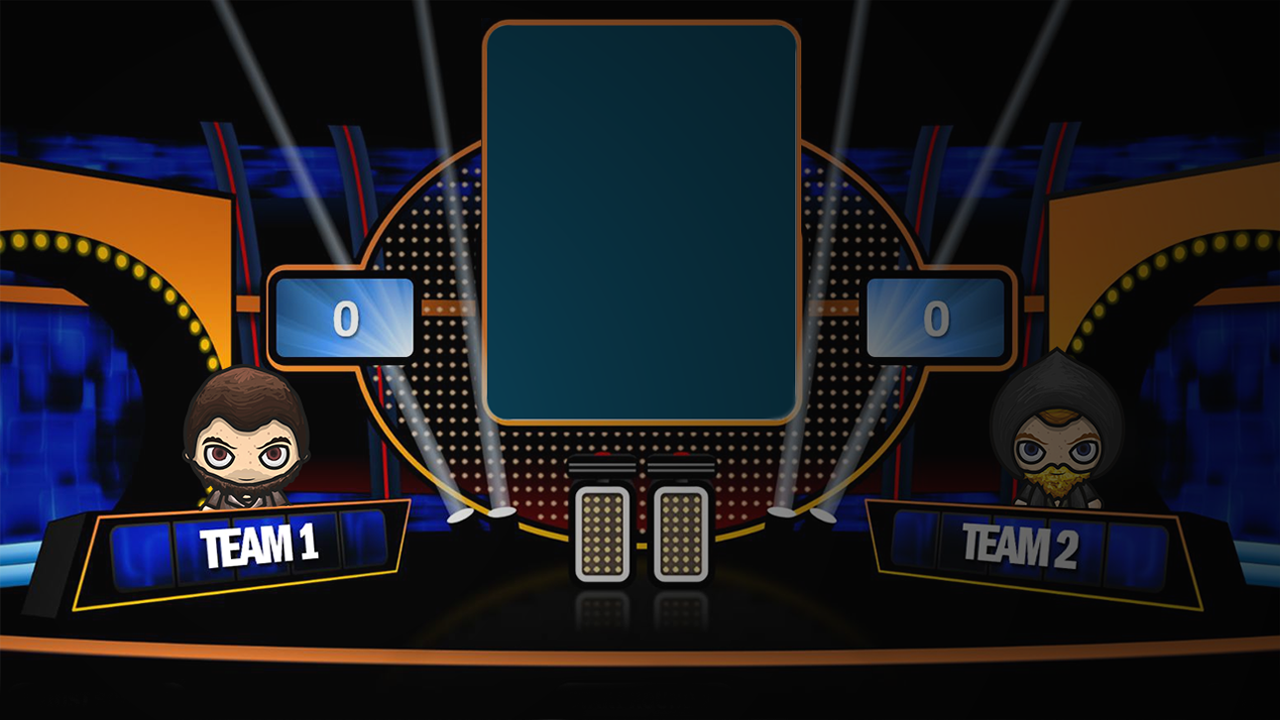
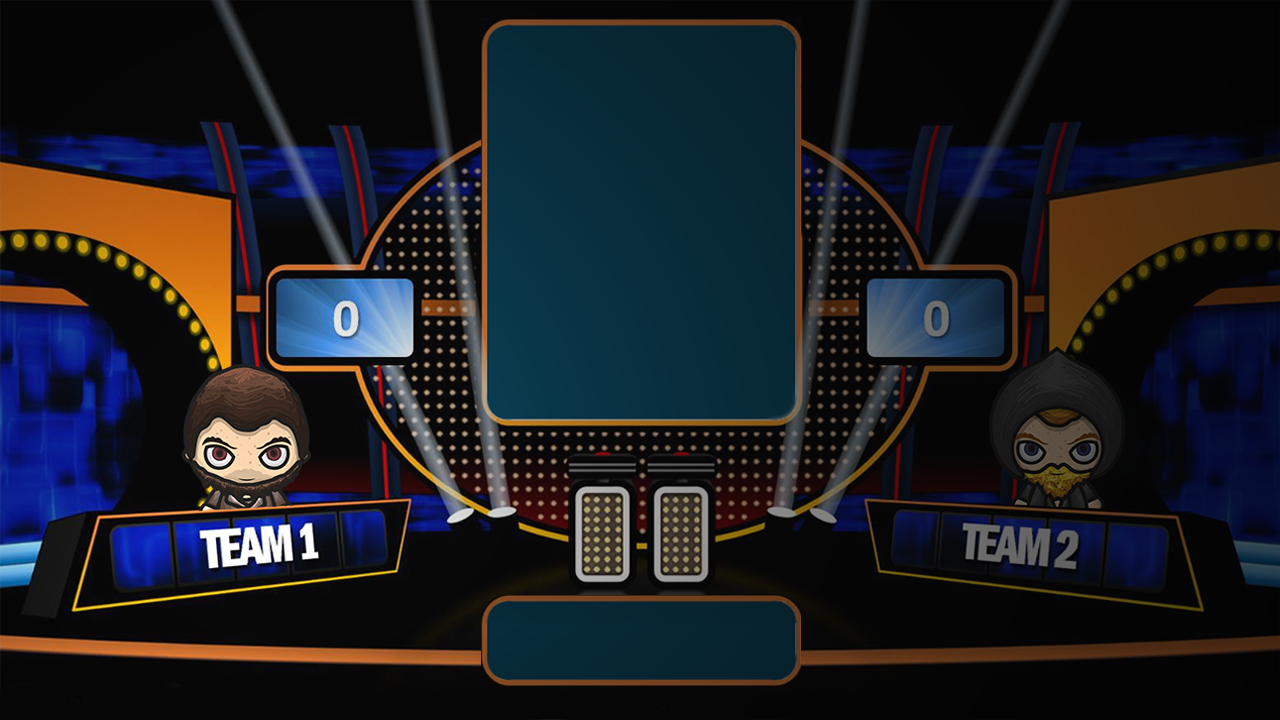
Updated Lingo - Added Inputbox, Arrays & Function

Changed region(s): [[0.375, 0.825, 0.625, 0.9778]]

diff --git a/script.js b/script.js
@@ -1,16 +1,81 @@
-var firstWORD = "HELLO";
+var word = "H....";
+var firstWORD = word.split('');
+firstWORD.join('');
+var word2 = "HELLO";
+var firstWORD2 = word2.split('');
 
+var form = document.createElement("FORM");
+var input = document.createElement('INPUT');
+var inputbox = document.getElementById("input");
+input.type = "TEXT";
+input.name = "word";
+form.style.textAlign = "center";
+input.style.width = "16vw";
+input.style.height = "7.5vh";
+input.style.borderRadius = "25px";
+input.style.marginTop = "5px";
+input.style.fontSize = "65px";
+input.style.background = "transparent";
+input.style.color = "white";
+input.style.textAlign = "center";
+input.style.textTransform = "uppercase";
+input.id = "forminput";
+
+form.setAttribute('action', 'javascript:void(0);');
+input.setAttribute('autocomplete', 'off');
+
+
+
+form.appendChild(input);
+inputbox.appendChild(form);
 
 function createWORD(){
+	input.value.split('');
+
+	
+
+	if (input.value[0] == firstWORD2[0]){	
+		firstWORD[0] = firstWORD2[0];
+	}
+	if (input.value[1] == firstWORD2[1]){	
+		firstWORD[1] = firstWORD2[1];
+	}
+	if (input.value[2] == firstWORD2[2]){	
+		firstWORD[2] = firstWORD2[2];
+	}
+	if (input.value[3] == firstWORD2[3]){	
+		firstWORD[3] = firstWORD2[3];
+	}
+	if (input.value[4] == firstWORD2[4]){	
+		firstWORD[4] = firstWORD2[4];
+	}
+
+
+
+
+
+	console.log(firstWORD);
+	console.log(firstWORD2);
 	for (i=1;i<6;i++){
 	var para = document.createElement("p");
-
-	var node = document.createTextNode(firstWORD.charAt(i-1));
+	var node = document.createTextNode(firstWORD[i-1]);
 	para.appendChild(node);
 	var playbord = document.getElementById("playbord");
 	playbord.appendChild(para);
-
-	console.log(i + firstWORD.charAt(i-1));
+	input.value = "";
 	}
 }
 
+
+
+
+
+
+document.getElementById('input').onkeydown = function(e){
+   if(e.keyCode == 13){
+     createWORD();
+     
+   }
+};
+
+createWORD();

diff --git a/design.html b/design.html
@@ -5,6 +5,10 @@
 </head>
 
 <style>
+	
+*:focus {
+    outline: none;
+}
 
 body{
 	background-color: black;
@@ -28,19 +32,28 @@ body{
 p{
 	display: inline-block;
     width: 3vw;
-    height: 3vh;
+    height: 5vh;
     background: white;
+    line-height: 5vh;
+    margin-left: 3px;
     text-align: center;
-    line-height: 3vh;
+    margin-bottom: 0px;
 }
-
+#input{
+	height: 8.5vh;
+    width: 16vw;
+    margin: 198px auto;
+}
 </style>
 <body>
 	<div id="main">
 		<div id="playbord">
 		</div>
+	
+	<div id="input"></div>
 	</div>
 
+	
 	<script src="script.js"></script>
 </body>
 </html>
